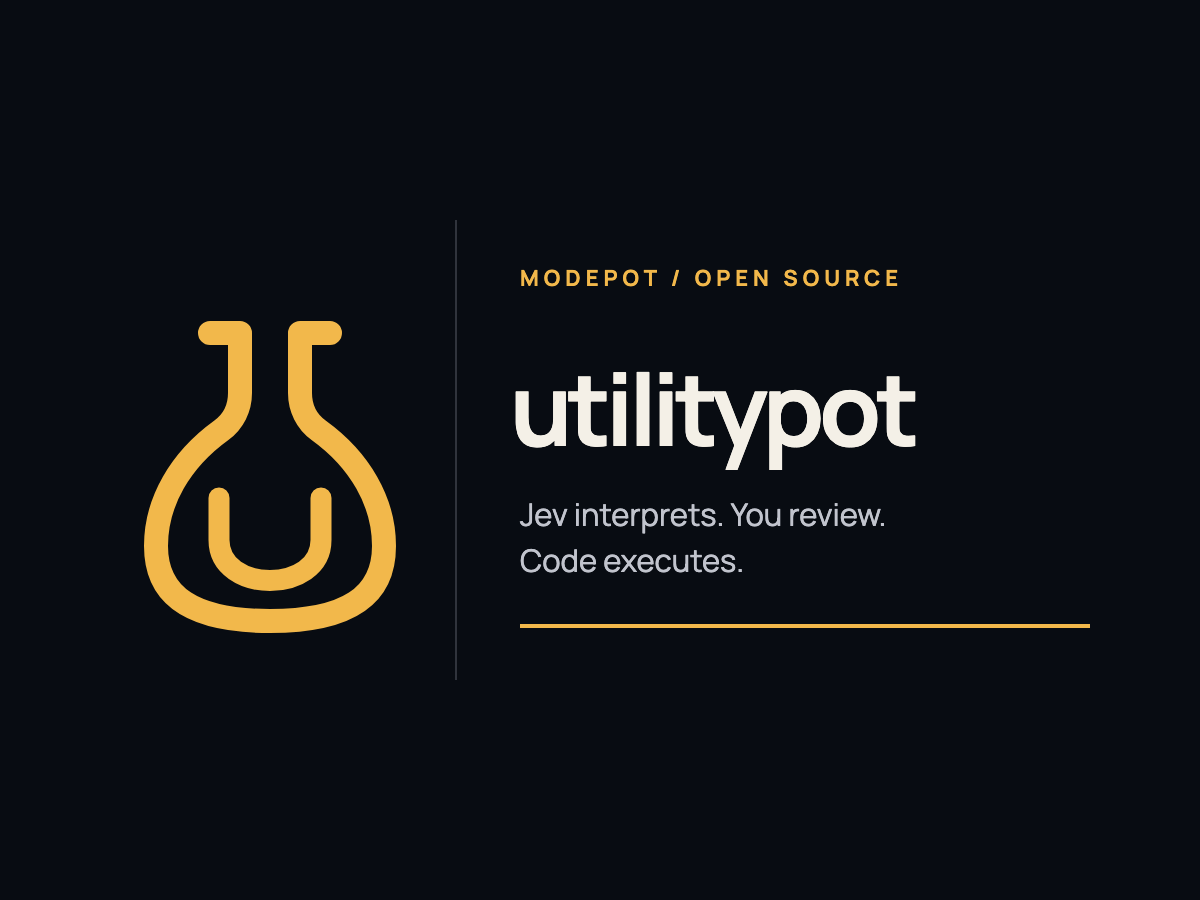
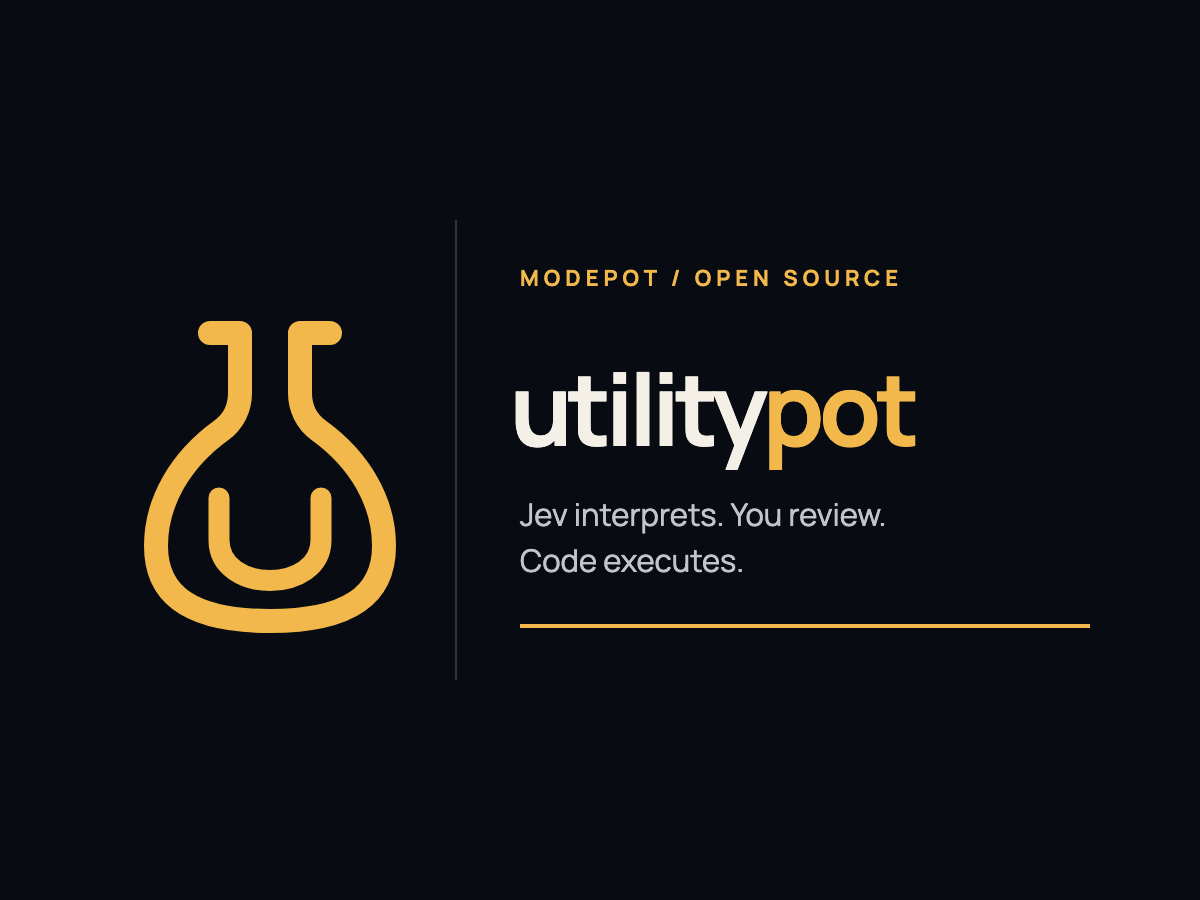
fix: restore the orange pot wordmark suffix

Changed region(s): [[0.6167, 0.4044, 0.7708, 0.5289]]

diff --git a/README.md b/README.md
@@ -1,6 +1,6 @@
 # UtilityPot
 
-<p align="center"><img src="utilitypot.png" alt="UtilityPot — Jev interprets. You review. Code executes." width="600"></p>
+<p align="center"><img src="utilitypot.png?v=wordmark-2" alt="UtilityPot — Jev interprets. You review. Code executes." width="600"></p>
 
 <p align="center">Part of <a href="https://modepot.io/">ModePot</a>. &nbsp; <a href="https://utilitypot.modepot.io/">Project website</a> &nbsp; <a href="https://tugrul.modepot.io/">Created by Tugrul Guner</a></p>
 
